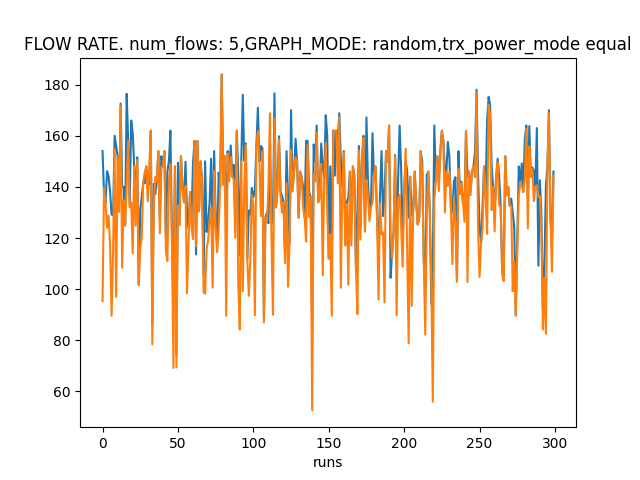
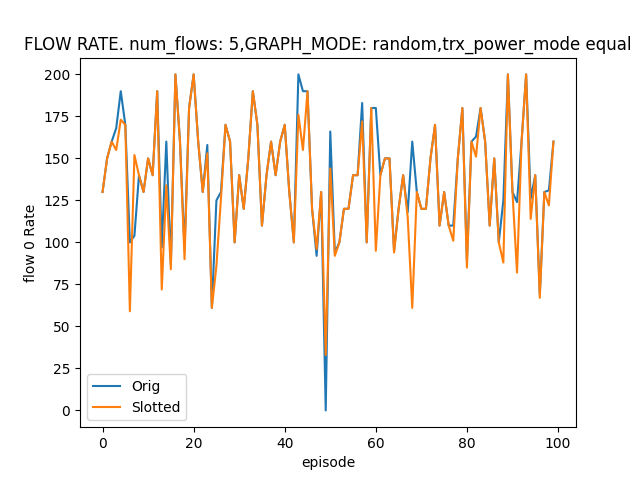
test resultsd ready, bothj envierments are aprox the same..

diff --git a/DIAMOND/test/inference_vs_competitors.py b/DIAMOND/test/inference_vs_competitors.py
@@ -82,11 +82,11 @@ class TestvsCompetitors:
             grrl_rates_data, grrl_delay_data = self.diamond(env, grrl_data=True)
             slotted_grrl_rates_data, slotted_grrl_delay_data = self.diamond(slotted_env, grrl_data=True)
             
-            data['grrl_delay'].append(np.mean(grrl_delay_data['delay_per_flow']))
-            data['grrl_rates'].append(np.mean(grrl_rates_data['rate_per_flow']))
+            data['grrl_delay'].append(grrl_delay_data['delay_per_flow'][0])
+            data['grrl_rates'].append(grrl_rates_data['rate_per_flow'][0])
 
-            data['Slotted Env grrl_delay'].append(np.mean(slotted_grrl_delay_data['end_to_end_delay_per_flow']))
-            data['Slotted Env grrl_rates'].append(np.mean(slotted_grrl_rates_data['rate_per_flow']))
+            data['Slotted Env grrl_delay'].append(slotted_grrl_delay_data['end_to_end_delay_per_flow'][0])
+            data['Slotted Env grrl_rates'].append(slotted_grrl_rates_data['rate_per_flow'][0])
 
             # competitors
             for name, comp in zip(self.competitors.keys(), self.competitors.values()):
@@ -119,7 +119,7 @@ if __name__ == "__main__":
     num_edges = 90  # 50
     num_actions = 4
     temperature = 1.2
-    num_episodes = 500
+    num_episodes = 100
     episode_from = 7500
     nb3r_steps = 100
 
@@ -151,22 +151,26 @@ if __name__ == "__main__":
             plt.plot(data['grrl_delay'],label='Orig')
             plt.plot(data['Slotted Env grrl_delay'],label='Slotted')
             plt.title(f'DELAY. num_flows: {num_flows},GRAPH_MODE: {GRAPH_MODE},trx_power_mode {trx_power_mode}' )
+            plt.xlabel('episode')
+            plt.ylabel('flow 0 delay')   
+            plt.legend()         
             plt.savefig(f'{num_flows}_{GRAPH_MODE}_{trx_power_mode}_DELAY')
-            plt.xlabel('runs')
             plt.close()
 
             plt.figure()
             plt.plot(data['grrl_rates'],label='Orig')
             plt.plot(data['Slotted Env grrl_rates'],label='Slotted')
             plt.title(f'FLOW RATE. num_flows: {num_flows},GRAPH_MODE: {GRAPH_MODE},trx_power_mode {trx_power_mode}' )
-            plt.xlabel('runs')
+            plt.xlabel('episode')
+            plt.ylabel('flow 0 Rate')
+            plt.legend()
             plt.savefig(f'{num_flows}_{GRAPH_MODE}_{trx_power_mode}_RATES')
             plt.close()
 
             if save_to_file:
-                # curr_path = os.path.join(BASE_PATH, timestamp, GRAPH_MODE, trx_power_mode)
-                # os.makedirs(curr_path)
-                # shutil.copy(src=script_path, dst=os.path.join(curr_path, os.path.split(script_path)[1]))  
+                curr_path = os.path.join(BASE_PATH, timestamp, GRAPH_MODE, trx_power_mode)
+                os.makedirs(curr_path)
+                shutil.copy(src=script_path, dst=os.path.join(curr_path, os.path.split(script_path)[1]))  
                 with open(os.path.join(curr_path, f"{GRAPH_MODE}_{trx_power_mode}_rates.csv"), 'w') as f:
                     f.writelines("# " + trx_power_mode + '\n')
                     f.writelines("# " + GRAPH_MODE + '\n')
